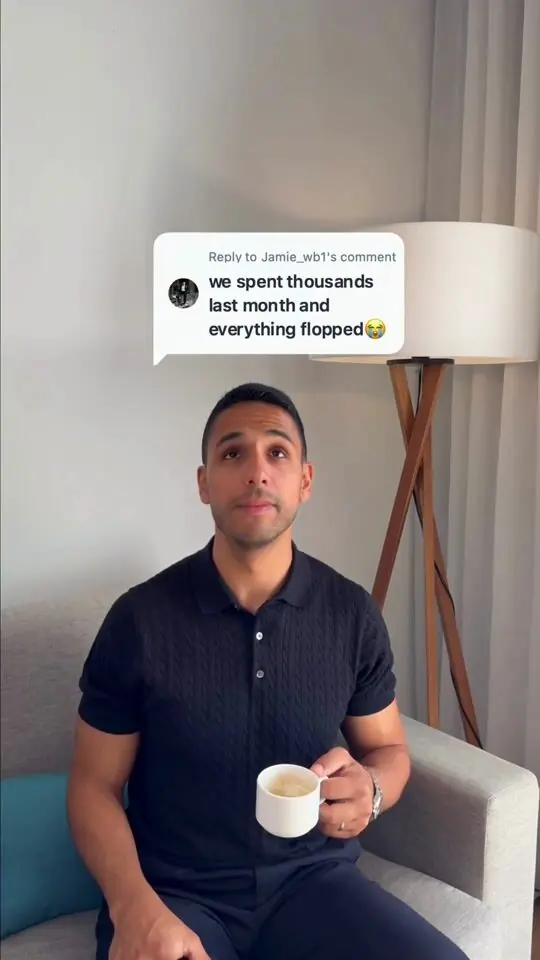
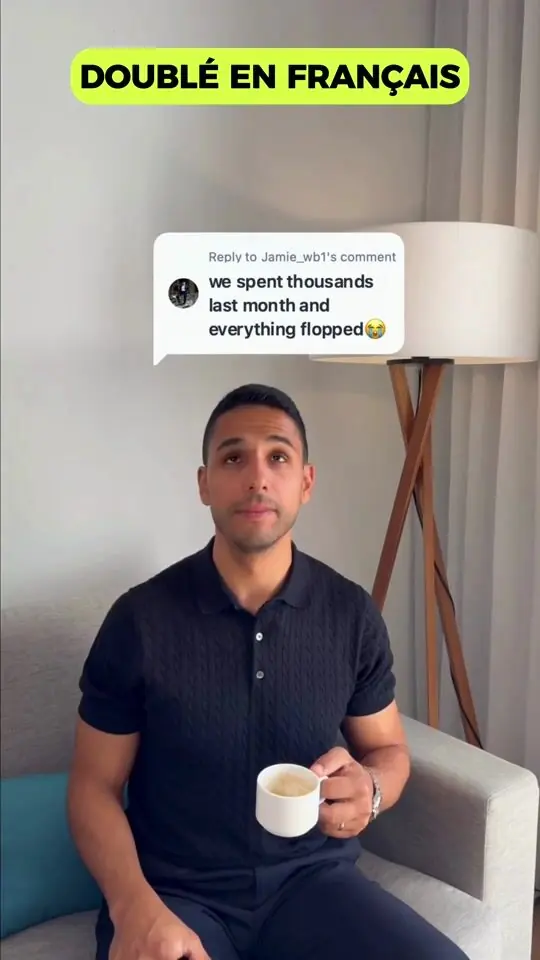
French home hero: dubbed-text video in the centre; language suggestion for every French-speaking country; privacy wording

Changed region(s): [[0.1185, 0.0312, 0.8889, 0.125], [0.3556, 0.4062, 0.5926, 0.5938]]

diff --git a/src/lib/languageSuggestion.js b/src/lib/languageSuggestion.js
@@ -1,11 +1,11 @@
-/* LANGUAGE SUGGESTION for visitors in Spain (Spanish) and France (French): a small, dismissible hint on ENGLISH pages. A progressive enhancement only.
+/* LANGUAGE SUGGESTION for visitors in Spain (Spanish) and in France or any other French-speaking country (French): a small, dismissible hint on ENGLISH pages. A progressive enhancement only.
 
    What it is NOT: a redirect. No page, URL, canonical, hreflang, sitemap entry, metadata or JSON-LD changes, and the prerendered HTML never contains the hint (it is mounted in its own React root
    after the page has loaded and hydrated), so crawlers and visitors outside Spain receive exactly the same page as before. Both languages stay independently reachable and indexable.
 
    When it appears (all must hold): an English page that exists as a prerendered public page (not the 404 page, not the private pages, not the legal pages), the language is live, the visitor has no stored
    language choice (src/lib/languagePreference.js), and the server says the request came from that language's country (GET /api/visitor-country, which reads Vercel's x-vercel-ip-country header and answers
-   { spain, france, known } with `Cache-Control: private, no-store`). If the lookup works and says no, nothing is shown. ONLY when the server cannot place the request at all (known: false: the lookup failed or no
+   { spain, france, french, known } with `Cache-Control: private, no-store`). If the lookup works and says no, nothing is shown. ONLY when the server cannot place the request at all (known: false: the lookup failed or no
    country was available) is the browser's preferred-language list used instead, and only if its first supported language is one of ours. No browser location permission, no external geolocation service,
    no IP address stored, no tracking events. A new language is added to SUGGESTIBLE below together with its country in api/_lib/geo.js and its card text in src/components/LanguageSuggestion.jsx. */
 
@@ -22,7 +22,7 @@ const LEGAL = new Set([PATHS.privacy, PATHS.terms, PATHS.legalNotice])
 const isPublicPage = (basePath) => KNOWN_PATHS.includes(basePath) || basePath.startsWith(`${BLOG_PATH}/`)
 
 /* The languages we suggest: each with the visitor flag the server answers for its country. */
-export const SUGGESTIBLE = { fr: 'france', es: 'spain' }
+export const SUGGESTIBLE = { fr: 'french', es: 'spain' }
 
 /* Where the suggestion's link goes for this English page and language: the equivalent translated page when it exists and is released, otherwise the language's homepage. Null = do not offer. */
 export function suggestionTargetFor(locale, pathname) {
@@ -36,7 +36,7 @@ export const suggestionTarget = (pathname) => suggestionTargetFor('es', pathname
 
 /* Asks the server where this request came from. Any failure (network, status, bad JSON, timeout) is "unknown": { spain: false, france: false, known: false }. */
 export async function visitorGeo(fetchImpl = (typeof fetch === 'undefined' ? undefined : fetch), timeoutMs = 4000) {
-  const none = { spain: false, france: false, known: false }
+  const none = { spain: false, france: false, french: false, known: false }
   if (!fetchImpl) return none
   const ctrl = typeof AbortController === 'undefined' ? null : new AbortController()
   const timer = ctrl ? setTimeout(() => ctrl.abort(), timeoutMs) : null
@@ -44,7 +44,7 @@ export async function visitorGeo(fetchImpl = (typeof fetch === 'undefined' ? und
     const res = await fetchImpl(GEO_ENDPOINT, { method: 'GET', cache: 'no-store', credentials: 'same-origin', signal: ctrl?.signal })
     if (!res.ok) return none
     const j = await res.json()
-    return { spain: j?.spain === true, france: j?.france === true, known: j?.known === true }
+    return { spain: j?.spain === true, france: j?.france === true, french: j?.french === true, known: j?.known === true }
   } catch {
     return none
   } finally {

diff --git a/src/components/LanguageSuggestion.jsx b/src/components/LanguageSuggestion.jsx
@@ -1,7 +1,7 @@
 import { useEffect, useRef, useState } from 'react'
 import { rememberLanguage, rememberDismissal } from '../lib/languagePreference.js'
 
-/* The language suggestion for visitors in Spain and France (see src/lib/languageSuggestion.js). A compact, non-modal card at the bottom of an English page: no focus trap, no focus steal, no overlay.
+/* The language suggestion for visitors in Spain and in French-speaking countries (see src/lib/languageSuggestion.js). A compact, non-modal card at the bottom of an English page: no focus trap, no focus steal, no overlay.
    The card's text is in the suggested language, on an English page, so it carries that language's lang attribute.
    • The primary button (« Passer en français » / "Ver en español") is an ordinary link to the translated page (it works even if scripts fail); the click remembers that language.
    • The other button (« Rester en anglais » / "Continuar en inglés") remembers English and closes the card; the visitor stays where they are.
@@ -11,7 +11,7 @@ import { rememberLanguage, rememberDismissal } from '../lib/languagePreference.j
 /* The card's text per language (a new language adds its entry here and in src/lib/languageSuggestion.js SUGGESTIBLE). */
 const COPY = {
   es: { region: 'Sugerencia de idioma', close: 'Cerrar', title: '¿Prefieres navegar en español?', text: 'También puedes visitar nuestra web en español.', stay: 'Continuar en inglés', go: 'Ver en español', hrefLang: 'es' },
-  fr: { region: 'Suggestion de langue', close: 'Fermer', title: 'Vous êtes en France ?', text: 'Découvrez notre site en français.', stay: 'Rester en anglais', go: 'Passer en français', hrefLang: 'fr-FR' },
+  fr: { region: 'Suggestion de langue', close: 'Fermer', title: 'Vous préférez naviguer en français ?', text: 'Découvrez notre site en français.', stay: 'Rester en anglais', go: 'Passer en français', hrefLang: 'fr-FR' },
 }
 
 const btn = 'inline-flex min-h-[44px] flex-1 items-center justify-center whitespace-nowrap rounded-full px-3 py-2 text-[13.5px] font-semibold transition-colors focus-visible:outline focus-visible:outline-2 focus-visible:outline-offset-2 focus-visible:outline-lime'

diff --git a/api/_lib/geo.js b/api/_lib/geo.js
@@ -1,8 +1,13 @@
-/* Where a request came from, as far as this site needs to know: Spain, France or neither. Vercel sets the x-vercel-ip-country header on every request at its edge (a client cannot set it);
+/* Where a request came from, as far as this site needs to know: Spain, France, a French-speaking country or none of them. Vercel sets the x-vercel-ip-country header on every request at its edge (a client cannot set it);
    it is the same value @vercel/functions' geolocation() reads. Only booleans leave this function (about the requester, to the requester): no IP address, no country code, nothing is stored or logged.
    A country is added here only together with a live language whose visitors we suggest it to (src/lib/languageSuggestion.js). */
 const country = (headers = {}) => String(headers['x-vercel-ip-country'] ?? '').trim().toUpperCase()
 export const isSpain = (headers = {}) => country(headers) === 'ES'
 export const isFrance = (headers = {}) => country(headers) === 'FR'
+/* Countries where French is an official or main everyday language (owner, 2026-11-24: suggest French to visitors from France, Canada, Switzerland and any other French-speaking country): Europe (FR, BE, CH, LU, MC),
+   Canada, French overseas territories, French-speaking Africa, Madagascar, Haiti and Vanuatu. The Maghreb (MA, DZ, TN) is left out on purpose: Arabic is the main language there. The visitor is only ever
+   OFFERED French (a dismissible card, never a redirect). */
+export const FRENCH_SPEAKING = new Set(['FR', 'BE', 'CH', 'LU', 'MC', 'CA', 'GP', 'MQ', 'GF', 'RE', 'YT', 'PM', 'BL', 'MF', 'NC', 'PF', 'WF', 'SN', 'CI', 'CM', 'CD', 'CG', 'GA', 'TG', 'BJ', 'BF', 'ML', 'NE', 'TD', 'GN', 'CF', 'BI', 'DJ', 'KM', 'MG', 'HT', 'VU'])
+export const isFrenchSpeaking = (headers = {}) => FRENCH_SPEAKING.has(country(headers))
 /* The edge gave a country at all (false locally, or when Vercel cannot place the request): the client then falls back to the browser's language list, never to a guess about the network. */
 export const countryKnown = (headers = {}) => /^[A-Z]{2}$/.test(country(headers))

diff --git a/src/content/trustPages.js b/src/content/trustPages.js
@@ -236,7 +236,7 @@ export const TRUST_CONTENT = {
           'Your browser\'s storage on this site stays on your device:',
           { list: [
             'convrt_consent_v1 (kept until you change it or clear your browser data; used only once the cookie banner is switched on): your cookie choice.',
-            'convrt_language (kept until you clear your browser data): the language you chose on purpose, English or Spanish, or that you closed the language suggestion, so we do not ask again. It is never sent to us and never changes what a page shows. The suggestion itself appears only to visitors whose request comes from Spain: our hosting provider (Vercel) tells our server the country of the request, our server answers only yes or no and stores nothing, and your browser location is never requested.',
+            'convrt_language (kept until you clear your browser data): the language you chose on purpose (English, Spanish or French), or that you closed the language suggestion, so we do not ask again. It is never sent to us and never changes what a page shows. The suggestion itself appears only to visitors whose request comes from Spain, from France or from another French-speaking country: our hosting provider (Vercel) tells our server the country of the request, our server answers only yes or no and stores nothing, and your browser location is never requested.',
             'convrt_scale_attribution (this browser tab only): the campaign details in the link you arrived through (utm_source, utm_medium, utm_campaign, utm_content and utm_term), so they can be passed on to our booking link. We do not store advertising click identifiers (such as gclid or fbclid).',
             'convrt_calendly_requested (this browser session only): that you asked to see the booking calendar.',
             'convrt_landing_page (this browser session only, and only if you accept analytics): the first page of your visit, used to see which pages lead to enquiries.',

diff --git a/api/visitor-country.js b/api/visitor-country.js
@@ -1,10 +1,10 @@
-/* Vercel serverless function: GET /api/visitor-country → { "spain": bool, "france": bool, "known": bool }.
+/* Vercel serverless function: GET /api/visitor-country → { "spain": bool, "france": bool, "french": bool, "known": bool }.
    Used by the language suggestion on English pages (src/lib/languageSuggestion.js). The answer depends on WHO is asking, so it is never cacheable by a shared cache:
    `Cache-Control: private, no-store` (set by send()) and `Vary: x-vercel-ip-country`. Anything unexpected answers all false. */
 import { send } from './_lib/http.js'
-import { isSpain, isFrance, countryKnown } from './_lib/geo.js'
+import { isSpain, isFrance, isFrenchSpeaking, countryKnown } from './_lib/geo.js'
 
 export default function handler(req, res) {
   if (req.method !== 'GET' && req.method !== 'HEAD') return send(res, 405, { error: 'method_not_allowed' }, { Allow: 'GET, HEAD' })
-  return send(res, 200, { spain: isSpain(req.headers), france: isFrance(req.headers), known: countryKnown(req.headers) }, { 'Cache-Control': 'private, no-store, max-age=0', Vary: 'x-vercel-ip-country' })
+  return send(res, 200, { spain: isSpain(req.headers), france: isFrance(req.headers), french: isFrenchSpeaking(req.headers), known: countryKnown(req.headers) }, { 'Cache-Control': 'private, no-store, max-age=0', Vary: 'x-vercel-ip-country' })
 }

diff --git a/src/content/homeHero.js b/src/content/homeHero.js
@@ -88,7 +88,7 @@ export const HOME_HERO_ES = [
    English and Spanish keep their own heroes. */
 const frApproval = { ...approval, approvedOn: '2026-11-23' }
 export const HOME_HERO_FR = [
-  { id: 'home-hero-fr-main', creatorId: 'cv-home-hero', industry: 'unclassified', languages: ['fr'], caption: 'Publicité CONVRT, version française.', poster: '/portfolio/fr-home-hero.webp', source: { cloudflareId: '06d0cf7f9cea77275b486f62144b3708' }, approval: frApproval },
+  { id: 'home-hero-fr-main', creatorId: 'cv-home-hero', industry: 'unclassified', languages: ['fr'], caption: 'Publicité CONVRT, version française.', poster: '/portfolio/fr-home-hero.webp', source: { cloudflareId: 'ce7f495642b90a531e44f17b8e7454c5' }, approval: frApproval },
   { id: 'home-hero-fr-left', creatorId: 'fr-c01', industry: 'unclassified', languages: ['fr'], caption: 'Complément alimentaire : démonstration du produit face caméra.', poster: '/portfolio/fr-ugc-hero-1.webp', source: { cloudflareId: 'c1dd083d5550608a139f656670bd77a5' }, approval: frApproval },
   { id: 'home-hero-fr-right', creatorId: 'fr-c02', industry: 'unclassified', languages: ['fr'], caption: 'Application pour voyager : un créateur raconte son expérience.', poster: '/portfolio/fr-ugc-hero-2.webp', source: { cloudflareId: '0346ed0881533220ba77bc4b3d4c26f9' }, approval: frApproval },
 ]

diff --git a/src/content/posterFrames.js b/src/content/posterFrames.js
@@ -15,7 +15,7 @@ export const POSTER_FRAMES = {
   '5b1058e9c68ab7b05bd24858ceaadb9c': 2.1, // portfolio:fr-ugc-hero-3 [fr]
   '7c681c012def2539e7c32c99889d8662': 18.6, // portfolio:fr-ugc-1 [fr]
   'a273a9e766e0baf7eed8a6ad72c8892b': 6.3, // portfolio:fr-ugc-2 [fr]
-  '06d0cf7f9cea77275b486f62144b3708': 0.4, // home-hero-fr:home-hero-fr-main (French-dubbed CONVRT ad; clear face, open eyes, coffee cup, only the comment bubble on screen)
+  'ce7f495642b90a531e44f17b8e7454c5': 0.4, // home-hero-fr:home-hero-fr-main (French-dubbed CONVRT ad with dubbed on-screen text, FRENCH-with-Dubbed-Text.mp4; clear face, open eyes, coffee cup, the comment bubble, no caption word mid-frame)
   '8797ae3fba20c95e9d9d10eefda840c9': 3.4, // portfolio:fr-mohamed-comma [fr]
   'a4a52503d855717880ed6dcbaca724b5': 1.9, // portfolio:fr-mohamed-route-facile [fr]
   '5639f5ff6b02b7501b946aef4466ad4c': 19.6, // portfolio:fr-mohamed-skycop [fr]

diff --git a/docs/language-suggestion.md b/docs/language-suggestion.md
@@ -31,9 +31,9 @@ No fingerprints, IP lists or hard-coded addresses: each browser simply stores it
 `api/visitor-country.js`, `api/_lib/geo.js`, `src/lib/languagePreference.js`, `src/lib/languageSuggestion.js`, `src/components/LanguageSuggestion.jsx`, `src/components/mountLanguageSuggestion.jsx` (own React root, like the cookie banner),
 wiring in `src/main.jsx` and `src/components/LanguageSelector.jsx`, dev route in `vite.config.js`, Privacy Policy line in `src/content/trustPages.js`.
 
-## France (French), added Nov 2026
-Same mechanism, second language. `GET /api/visitor-country` now answers `{ "spain": bool, "france": bool, "known": bool }` (`known` = the edge gave some country; still only booleans about the requester, `private, no-store`).
-An English public page offers French to a visitor in France: « Vous êtes en France ? Découvrez notre site en français. » with **Passer en français** (a plain link to the equivalent French page or `/fr/`) and **Rester en anglais**; × / Escape dismiss. Spain keeps the Spanish card.
+## French-speaking countries (French), added Nov 2026; widened 2026-11-24
+Same mechanism, second language. `GET /api/visitor-country` now answers `{ "spain": bool, "france": bool, "french": bool, "known": bool }` (`known` = the edge gave some country; still only booleans about the requester, `private, no-store`).
+An English public page offers French to a visitor in France, Belgium, Switzerland, Luxembourg, Monaco, Canada, the French overseas territories and French-speaking Africa (the list is `FRENCH_SPEAKING` in `api/_lib/geo.js`; the Maghreb is left out on purpose because Arabic is the main language there): « Vous préférez naviguer en français ? Découvrez notre site en français. » with **Passer en français** (a plain link to the equivalent French page or `/fr/`) and **Rester en anglais**; × / Escape dismiss. Spain keeps the Spanish card.
 Never a redirect, never in the prerendered HTML, never on `/fr/` or `/es/`, never again after any stored choice (`convrt_language` now also holds `fr`), waits for the cookie banner.
 **Fallback when the country is unknown only** (`known: false`: no header, lookup failed or timed out, e.g. a local preview): the browser's preferred-language list decides, and only if its first non-English language is one we offer (`preferredSuggestible`, the single place that reads `navigator.languages`). When the edge DID place the visitor elsewhere the browser language is ignored.
 To add a language: its country flag in `api/_lib/geo.js` + the endpoint, an entry in `SUGGESTIBLE` (`src/lib/languageSuggestion.js`) and its card text in `COPY` (`src/components/LanguageSuggestion.jsx`). Tests: `tests/language-suggestion.test.mjs`.

diff --git a/docs/multilingual-french-release.md b/docs/multilingual-french-release.md
@@ -64,7 +64,7 @@ Copy a native reviewer should check: the three H1s and titles, « formules sur m
 
 ## Revision 2 (Nov 2026): English design sync, hero, Mohamed, client story
 - **Merged**: Production `main` (English design review #1) into this branch. NOT merged: `footer-two-column-menu` (the English Services dropdown; unreleased). Its dropdown is shared Nav code that already localizes its links, so French gets it with the English release.
-- **Hero**: same structure as English; centre video = the French-dubbed CONVRT ad (Stream `06d0cf7f…`, `HOME_HERO_FR`), left = French female creator, right = French male creator (temporary). Offer line « 5 concepts publicitaires offerts », CTA « Recevoir 5 concepts gratuits », free video card live, hooks card « Bientôt disponible » (not a link). Comma is in the carousel and the Showcase only.
+- **Hero**: same structure as English; centre video = the French-dubbed CONVRT ad (Stream `ce7f4956…` = `FRENCH-with-Dubbed-Text.mp4` (dubbed on-screen text), `HOME_HERO_FR`), left = French female creator, right = French male creator (temporary). Offer line « 5 concepts publicitaires offerts », CTA « Recevoir 5 concepts gratuits », free video card live, hooks card « Bientôt disponible » (not a link). Comma is in the carousel and the Showcase only.
 - **Client stage** (`IndustryShowcase` / `RotaryStage` shared with English and Spanish): French = FIXD, two landscape frames (`pose2` in `src/lib/rotary.js`), single still plate, no selector. **Owner confirmation (chat, 2026-11-23):** FIXD is the intended client and returned for additional work after the initial project; the number of further projects was not stated, so none is shown (no order count or result). Spanish = the three clients, Spanish text, English reviews kept verbatim (there were no Spanish review translations).
 - **Reviews**: `ClientReviews` for en/es/fr; French shows labelled translations (excerpt + full) with the verbatim English original under « Lire l'avis complet ».
 - **Creators**: Mohamed (fr-c03) 4 vertical videos in the Showcase, UGC gallery and the homepage carousel (`homeCreator: { fr }`); FIXD1/FIXD2 are client-stage only. Stream ids: `docs/video-thumbnails.md` + the private map.

diff --git a/docs/video-thumbnails.md b/docs/video-thumbnails.md
@@ -14,7 +14,6 @@ Not changed: the Roadmap explainer keeps its deliberately chosen 25.6 s frame; t
 |---|---|---|
 | `0346ed08…` | 22.6s | portfolio:fr-ugc-hero-2 [fr]; home-hero-fr:home-hero-fr-right |
 | `04b0b981…` | 24.5s | portfolio:es-ugc-1 [es]; home-hero-es:home-hero-es-right |
-| `06d0cf7f…` | 0.4s | home-hero-fr:home-hero-fr-main |
 | `08abef50…` | 37.5s | portfolio:showcase-adscale-2 (home panel adscale) |
 | `0905b814…` | 10.6s | portfolio:showcase-elyon-2 (home panel elyon); elyon case study: Street Interview |
 | `0b429c9c…` | 5.6s | portfolio:saas-creator-2 |
@@ -88,6 +87,7 @@ Not changed: the Roadmap explainer keeps its deliberately chosen 25.6 s frame; t
 | `c8ed4698…` | 1.4s | portfolio:organic-gal-4 |
 | `cc23b5a0…` | 11.7s | portfolio:organic-hero-1 |
 | `cd6654c2…` | 16.7s | portfolio:creator-04 |
+| `ce7f4956…` | 0.4s | home-hero-fr:home-hero-fr-main |
 | `d0c08b8a…` | 7.2s | portfolio:en-josh-saas-1 |
 | `d2edf70e…` | 2.8s | portfolio:en-mohamed-ugc-1 |
 | `d9613dac…` | 5.9s | portfolio:organic-hero-3 |
